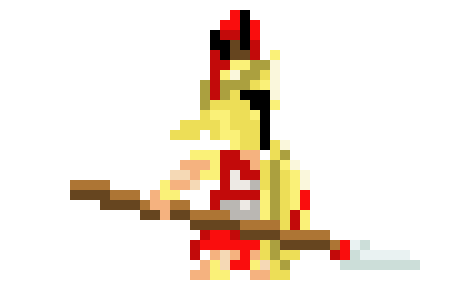
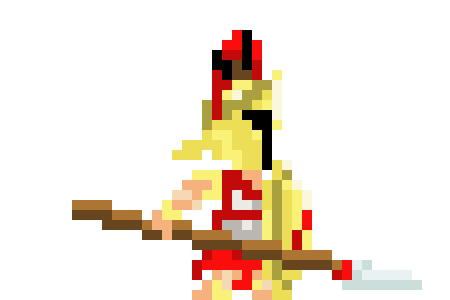
Added Spear, Arrow Textures. Added Arrow Class and some behavior. Removed Kirby and excess Textures.

Changed region(s): [[0.1556, 0.03, 0.9644, 1.0]]

diff --git a/src/com/company/MyWorld.java b/src/com/company/MyWorld.java
@@ -27,12 +27,20 @@ public class MyWorld extends World {
         BodyImage wallImage = new BodyImage("data/wall.png");
         AttachedImage wallAttached = new AttachedImage(wall, wallImage, 16, 0, new Vec2(0, 0));
 
-        // wall.addImage(wallAttached.getBodyImage());
+        // Text
+        Shape scrollShape = new BoxShape(8, 3);
+        Body scroll = new StaticBody(this, scrollShape);
+        scroll.setPosition(new Vec2(-3, 8.5f));
+        BodyImage scrollTexture = new BodyImage("data/scroll2.png");
+        AttachedImage scrollAttached = new AttachedImage(scroll, scrollTexture, 8, 0, new Vec2(0, 0));
 
         // Add our Hero
         Spartan = new Hero(this);
 
         // Add other Bodies
+        Arrow test = new Arrow(this);
+        test.setPosition(new Vec2(-20.5f, 13f));
+
         // Sphinx
         Shape villainShape = new PolygonShape(-4.31f,-4.58f,
                 4.8f,-4.46f,
@@ -42,14 +50,6 @@ public class MyWorld extends World {
         sphinx.addImage((new BodyImage("data/sphinx.png", 10f)));
         sphinx.setPosition(new Vec2(-20.5f, 5f));
 
-        // Kirby
-        Shape kirbyShape = new PolygonShape(-2.44f,2.37f,
-                2.38f,2.35f,
-                2.21f,-2.27f,
-                -2.35f,-2.27f);
-        DynamicBody kirby = new DynamicBody(this, kirbyShape);
-        kirby.addImage(new BodyImage("data/kirby.gif", 5f));
-        kirby.setPosition(new Vec2(0, -10));
     }
 
     // Getter for our Hero

diff --git a/src/com/company/Controller.java b/src/com/company/Controller.java
@@ -23,10 +23,10 @@ public class Controller implements KeyListener {
         int key = e.getKeyCode();
         if (key == KeyEvent.VK_A) {
             Spartan.startWalking(-MOVEMENT_SPEED);
-            Spartan.setHeroImage(new BodyImage("data/spartan_left.png"));
+            Spartan.setHeroImage(new BodyImage("data/spartan_left.png", 7f));
         } else if (key == KeyEvent.VK_D) {
             Spartan.startWalking(MOVEMENT_SPEED);
-            Spartan.setHeroImage(new BodyImage("data/spartan_right.png"));
+            Spartan.setHeroImage(new BodyImage("data/spartan_right.png", 7f));
         } else if (key == KeyEvent.VK_SPACE) {
             Spartan.jump(5f);
         }
@@ -37,10 +37,12 @@ public class Controller implements KeyListener {
         int key = e.getKeyCode();
         if (key == KeyEvent.VK_A) {
             Spartan.stopWalking();
+            Spartan.setHeroImage(new BodyImage("data/spartan_idle_left.png", 7f));
             // To make slow-down process not to abrupt, yet not too slippery
             Spartan.setLinearVelocity(new Vec2(-3, 0));
         } else if (key == KeyEvent.VK_D) {
             Spartan.stopWalking();
+            Spartan.setHeroImage(new BodyImage("data/spartan_idle.png", 7f));
             Spartan.setLinearVelocity(new Vec2(3, 0));
         }
     }

diff --git a/src/com/company/Tracker.java b/src/com/company/Tracker.java
@@ -1,0 +1,24 @@
+package com.company;
+
+import city.cs.engine.StepEvent;
+import city.cs.engine.StepListener;
+import org.jbox2d.common.Vec2;
+
+public class Tracker implements StepListener {
+    private MyView view;
+    private Hero spartan;
+    public Tracker(MyView view, Hero spartan) {
+        this.view = view;
+        this.spartan = spartan;
+    }
+
+    @Override
+    public void preStep(StepEvent stepEvent) {
+
+    }
+
+    @Override
+    public void postStep(StepEvent stepEvent) {
+        view.setCentre(new Vec2(spartan.getPosition()));
+    }
+}

diff --git a/src/com/company/Arrow.java b/src/com/company/Arrow.java
@@ -1,0 +1,20 @@
+package com.company;
+
+import city.cs.engine.*;
+import org.jbox2d.common.Vec2;
+
+public class Arrow extends DynamicBody {
+
+    private final Shape arrowShape;
+    private final DynamicBody arrow;
+
+    public Arrow(World world) {
+        super(world);
+
+        arrowShape = new BoxShape(1, 5);
+        arrow = new DynamicBody(world, arrowShape);
+        BodyImage arrowImage = new BodyImage("data/enemy_arrow.png", 5);
+        AttachedImage arrowAttached = new AttachedImage(arrow, arrowImage, 2.5f, 0, new Vec2(0,0));
+
+    }
+}

diff --git a/src/com/company/Hero.java b/src/com/company/Hero.java
@@ -21,7 +21,9 @@ public class Hero extends Walker  {
         this.setPosition(new Vec2(8, -10));
     }
 
-    public static void setHeroImage(BodyImage heroImage) {
-        Hero.heroImage = heroImage;
+    public void setHeroImage(BodyImage direction) {
+        removeAllImages();
+        Hero.heroImage = direction;
+        addImage(heroImage);
     }
 }

diff --git a/src/com/company/Game.java b/src/com/company/Game.java
@@ -45,8 +45,6 @@ public class Game {
 
     }
 
-
-
     public static void main(String[] args) {
         new Game();
     }
